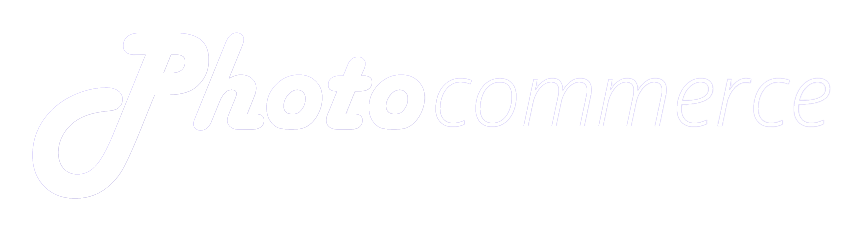
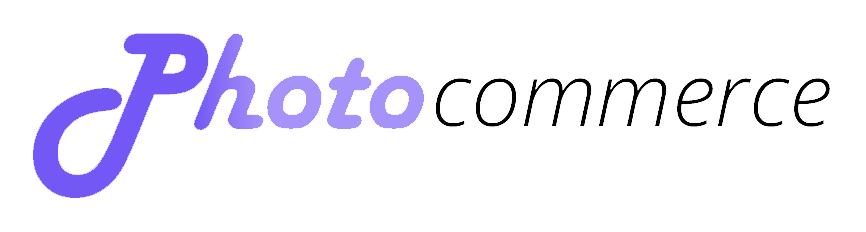
Added watermark dynamic

Changed region(s): [[0.0312, 0.1207, 0.9665, 0.875]]

diff --git a/pintura.html b/pintura.html
@@ -169,51 +169,6 @@
 
                     // Route editor events to the React Native layer
                     handleEvent: handleEditorEvent,
-                    imageWriter: createDefaultImageWriter({
-                        mimeType: 'image/jpeg',
-                        postprocessImageData: (imageData) =>
-                            new Promise((resolve, reject) => {
-                                // Create a canvas element to handle the imageData
-                                const canvas = document.createElement('canvas');
-                                canvas.width = imageData.width;
-                                canvas.height = imageData.height;
-                                const ctx = canvas.getContext('2d');
-                                ctx.putImageData(imageData, 0, 0);
-
-                                // Draw our watermark on top
-                                const watermark = new Image();
-                                watermark.onload = () => {
-                                    // how to draw the image to the canvas
-                                    ctx.globalCompositeOperation = 'screen';
-
-                                    // draw the watermark in the top right corner
-                                    ctx.drawImage(
-                                        watermark,
-
-                                        // the watermark x and y position
-                                        imageData.width - 100 - 20,
-                                        20,
-
-                                        // the watermark width and height
-                                        100,
-                                        40
-                                    );
-
-                                    // Get and return the modified imageData
-                                    resolve(
-                                        ctx.getImageData(
-                                            0,
-                                            0,
-                                            imageData.width,
-                                            imageData.height
-                                        )
-                                    );
-                                };
-                                watermark.onerror = reject;
-                                watermark.crossOrigin = 'Anonymous';
-                                watermark.src = './watermark.png';
-                            }),
-                    })
                 });
 
                 // Allow comms with editor from React Native layer
@@ -243,7 +198,51 @@
 
                         if (msg.editorOptions.imageWriter) {
                             msg.editorOptions.imageWriter = createDefaultImageWriter(
-                                msg.editorOptions.imageWriter
+                                {
+                                    ...msg.editorOptions.imageWriter,
+                                    ...(msg.editorOptions.watermark ? {postprocessImageData: (imageData) =>
+                                        new Promise((resolve, reject) => {
+                                            // Create a canvas element to handle the imageData
+                                            const canvas = document.createElement('canvas');
+                                            canvas.width = imageData.width;
+                                            canvas.height = imageData.height;
+                                            const ctx = canvas.getContext('2d');
+                                            ctx.putImageData(imageData, 0, 0);
+
+                                            // Draw our watermark on top
+                                            const watermark = new Image();
+                                            watermark.onload = () => {
+                                                // how to draw the image to the canvas
+                                                ctx.globalCompositeOperation = 'screen';
+
+                                                // draw the watermark in the top right corner
+                                                ctx.drawImage(
+                                                    watermark,
+
+                                                    // the watermark x and y position
+                                                    imageData.width - 100 - 20,
+                                                    20,
+
+                                                    // the watermark width and height
+                                                    100,
+                                                    40
+                                                );
+
+                                                // Get and return the modified imageData
+                                                resolve(
+                                                    ctx.getImageData(
+                                                        0,
+                                                        0,
+                                                        imageData.width,
+                                                        imageData.height
+                                                    )
+                                                );
+                                            };
+                                            watermark.onerror = reject;
+                                            watermark.crossOrigin = 'Anonymous';
+                                            watermark.src = msg.editorOptions.watermark;
+                                        })} : {}),
+                                },
                             );
                         }
 

diff --git a/PinturaEditor.d.ts b/PinturaEditor.d.ts
@@ -60,6 +60,8 @@ class PinturaEditor extends React.Component<
         /** CSS styles passed to editor webview */
         styleRules?: string;
 
+        watermark?: string;
+
         // readonly ref?: MutableRefObject<PinturaEditorRef>;
     } & PinturaEditorDefaultOptions &
         PinturaComponentEvents,
